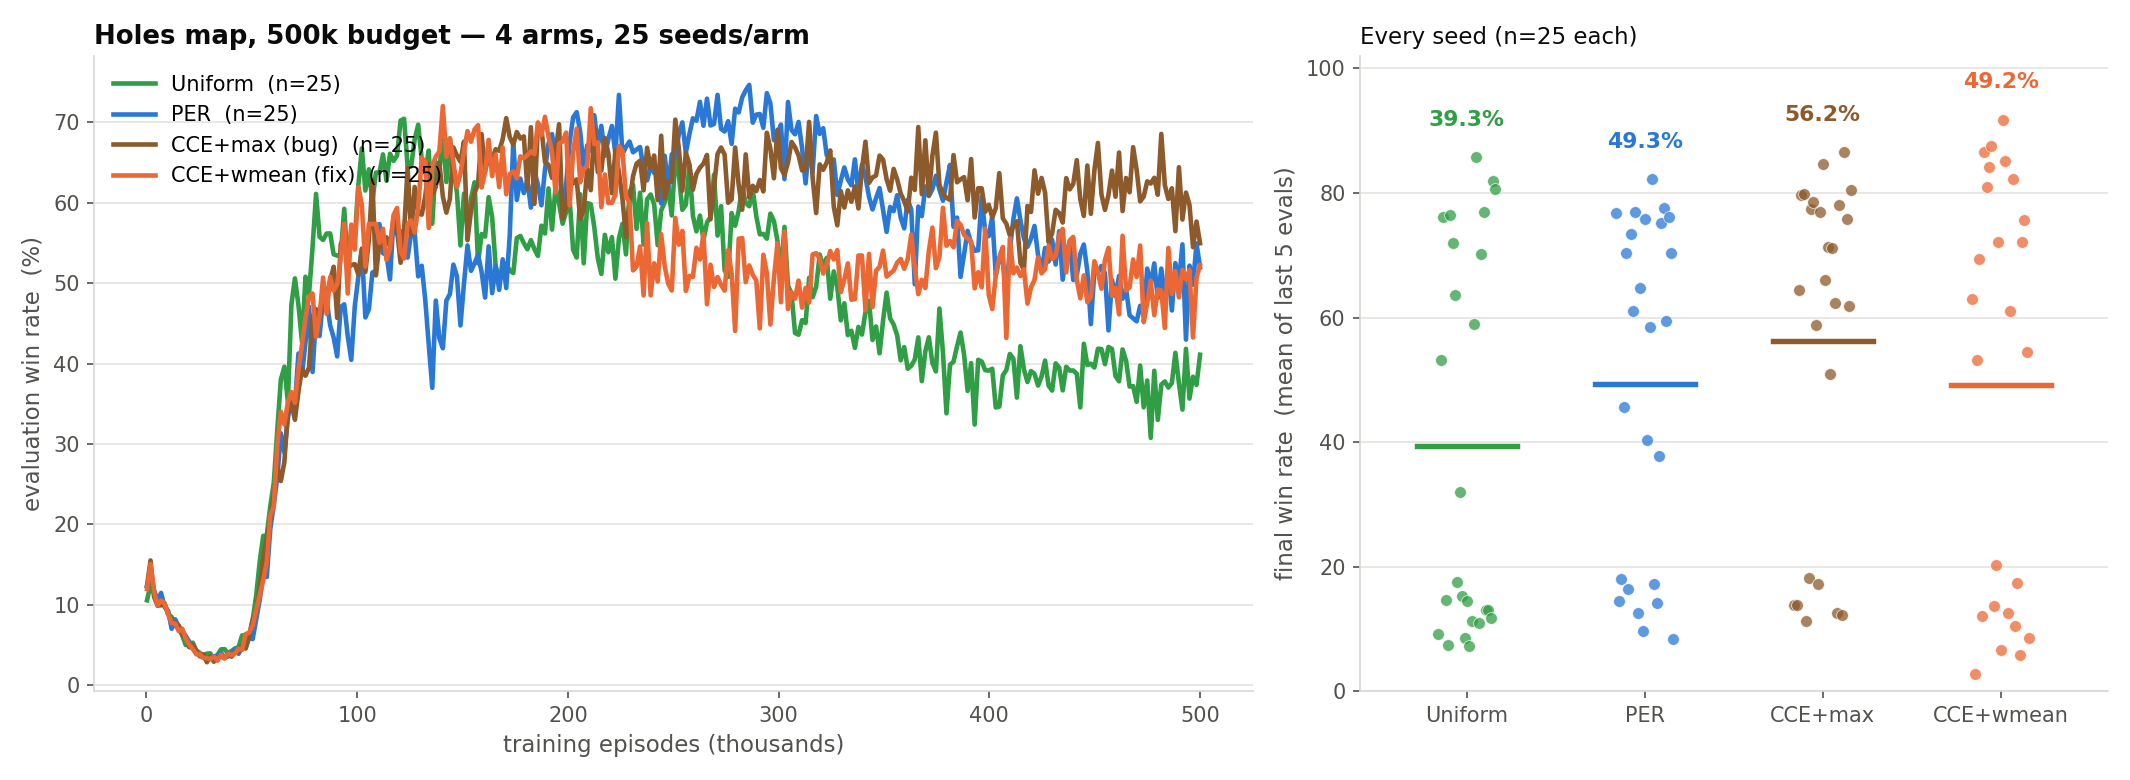
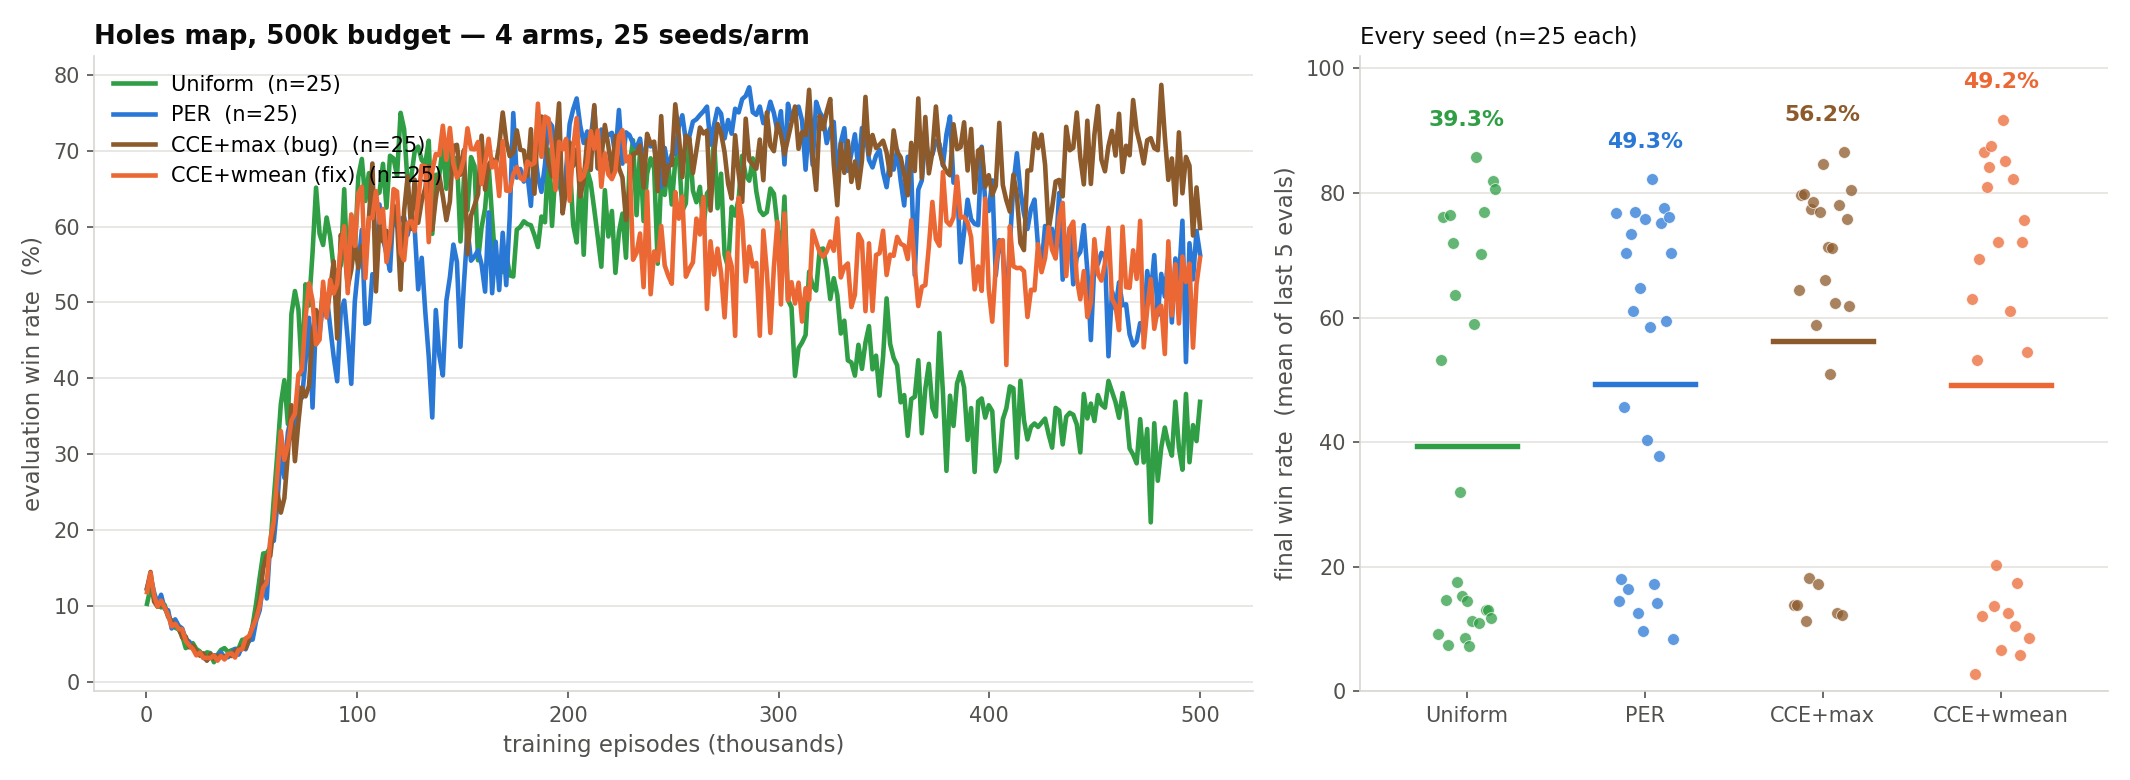
JaxNav figures: use the paper's IQM instead of a local one
jaxnav_holes_figures defined its own iqm() that trimmed a single value from
each end -- 23 of 25 seeds -- and labelled the result IQM. IQM is the middle
50%, 25% trimmed per tail, 13 of 25, which is what compute_metrics computes
through rliable.metrics.aggregate_iqm (itself scipy.stats.trim_mean at 0.25).
Two numbers under one word, on figures sitting next to a paper that uses the
real one.

compute_metrics.iqm() is now the single repo-wide definition and the JaxNav
module imports it. A repo-wide search for the trim-one pattern found it in
that one file only: every paper figure already went through compute_metrics,
so no FL, SMAX or paper/repro number was ever affected.

rliable was not installed in the counterfactual env -- it lives in the broken
~/.local tree that PYTHONNOUSERSITE=1 exists to bypass -- so it is installed
into the env properly now. That pulled in arch and rliable only; jax and
jaxmarl verified still importable afterwards.

What moves: the reported IQM values, and the IQM curve panel in all 8 figures,
which shifts up slightly because the true IQM trims the dead seeds out of the
middle (500k peaks ~78% rather than ~74%). Shape, arm ordering and the decline
after ep ~250k are unchanged.

What does not move: every mean, std, permutation/t/Mann-Whitney p-value,
Brown-Forsythe result and collapse count, all of which are computed from
per-seed finals or per-seed curves and never touched this function. So no
conclusion in any entry changes.
[…]

diff --git a/src/counterfactual_rl/analysis/claim2/compute_metrics.py b/src/counterfactual_rl/analysis/claim2/compute_metrics.py
@@ -15,6 +15,21 @@ from rliable import metrics as rl_metrics
 ALG_ORDER = ['DQN-Uniform', 'DQN+PER', 'DQN+CCE-only', 'CCE+TD (add)', 'CCE+TD (mul)']
 
 
+def iqm(scores) -> float:
+    """Interquartile mean of a 1-D score array -- the project's single definition.
+
+    Delegates to rliable so every figure in the repo aggregates the same way as
+    the paper. rliable's aggregate_iqm is scipy.stats.trim_mean(..., 0.25):
+    the middle 50%, i.e. 25% trimmed from each tail.
+
+    Exists because the JaxNav figures used to carry their own `iqm` that
+    trimmed a single value from each end (23 of 25 seeds rather than 13) and
+    still called the result IQM. On a bimodal arm those disagree by several
+    points, so the name has to mean one thing repo-wide.
+    """
+    return float(rl_metrics.aggregate_iqm(np.asarray(scores, dtype=float)))
+
+
 def iqm_curves(raw: Dict[str, np.ndarray], reps: int = 50000) -> Dict[str, Tuple]:
     """IQM learning curves with 95% bootstrap CI.
 

diff --git a/src/counterfactual_rl/analysis/claim2/jaxnav_holes_figures.py b/src/counterfactual_rl/analysis/claim2/jaxnav_holes_figures.py
@@ -193,10 +193,12 @@ def report_coverage(name, jobs, target, runs_dir=None, tol=0.95):
     return ok
 
 
-def iqm(vals):
-    """Interquartile mean: drop the extremes, average the middle."""
-    s = sorted(vals)
-    return float(np.mean(s[1:-1])) if len(s) > 2 else float(np.mean(s))
+# IQM comes from compute_metrics -- the same rliable call the paper's figures
+# use -- so "IQM" means one thing across the repo. This module used to define
+# its own, trimming a single value from each end (23 of 25 seeds) rather than
+# the middle 50% (13 of 25), and still labelling it IQM. On these bimodal arms
+# the two differ by several points.
+from .compute_metrics import iqm  # noqa: E402
 
 
 def iqm_curve(jobs, runs_dir=None):

diff --git a/lab-notebook.md b/lab-notebook.md
@@ -79,10 +79,10 @@ scenarios and a C1 redo, and JaxNav did not become one of them.
      22/25, 18/25 and 13/25 seeds; the rest diverge from the first eval, most likely GPU float
      nondeterminism (CCE, which does the most GPU work, diverges most). Set deterministic XLA
      flags before any seed-level claim.
-   - `jaxnav_holes_figures.iqm()` trims ONE value per end, which is NOT the rliable
-     interquartile mean the paper's `compute_metrics.py` uses (middle 50%). PER reads 52.1% vs
-     56.4% depending which you mean. STILL UNFIXED — rename it or change it before any JaxNav
-     number goes near the paper.
+   - IQM: FIXED 2026-08-15. `jaxnav_holes_figures` now imports `compute_metrics.iqm`, which is
+     rliable's aggregate_iqm, so there is one definition repo-wide. It previously trimmed one
+     value per end and called that IQM. See the top LOG entry for which reported numbers moved
+     (no conclusion did). `rliable` is now installed in the `counterfactual` env.
    - Post-hoc findings need fresh seeds. The 150k result was found by looking, confirmed
      nothing, and the 500k run reused the same seeds 0-24 by choice (continuation over
      independence), so it deepened the story without ever independently testing it.
@@ -115,6 +115,44 @@ scenarios and a C1 redo, and JaxNav did not become one of them.
 Active: FL-det, FL-stoch, SMAX-3m, C4.   Dropped: Chess, raw diagnostics.
 
 ## LOG (append-only, newest on top)
+
+### 2026-08-15 (later still) — JaxNav figures now use the paper's IQM; some reported IQMs shift
+`jaxnav_holes_figures.py` defined its own `iqm()` that trimmed ONE value from each end (23 of 25
+seeds) and called the result IQM. IQM means the middle 50% — 25% trimmed per tail, 13 of 25 —
+which is what `compute_metrics.py` computes via `rliable.metrics.aggregate_iqm`
+(itself `scipy.stats.trim_mean(..., 0.25)`). Same word, two numbers.
+
+Fixed by pointing the JaxNav module at the paper's definition: `compute_metrics.iqm()` is now
+the single repo-wide IQM and `jaxnav_holes_figures` imports it. Repo-wide search confirmed the
+trim-one version existed in that ONE file — every paper figure (FL, SMAX) already went through
+`compute_metrics`, so **no paper number was ever affected**. `docs/_archive/mock_claim2_figures.py`
+has a third, percentile-masking variant, but that tree is already marked do-not-cite.
+
+`rliable` was missing from the `counterfactual` conda env (it lives in the broken `~/.local`
+that `PYTHONNOUSERSITE=1` deliberately bypasses), so it is now installed into the env properly.
+Only added `arch` + `rliable`; jax and jaxmarl verified still importable afterwards.
+
+REPORTED IQM VALUES THAT CHANGE (means, std, all p-values and all collapse counts are
+UNAFFECTED — they never used this function):
+```
+              old(trim-1)  true IQM
+  96k   per      61.3%      62.7%     <- the true values match what the 2026-08-13 entry
+        cce_max  70.1%      71.7%        already recorded (62.7/71.7/66.0), so the notebook
+        cce_wm   63.2%      66.0%        was right and only the script had drifted
+  150k  per      52.1%      56.4%
+        cce_max  63.4%      64.9%
+        cce_wm   64.7%      64.5%
+  500k  uniform  38.7%      34.6%
+        per      49.7%      53.2%
+        cce_max  56.8%      64.1%
+        cce_wm   49.3%      51.2%
+```
+The 2026-08-14 and 2026-08-15 entries below quote the old trim-1 IQMs; read the table above for
+the corrected ones. **No conclusion changes** — every significance test and every collapse count
+is computed from per-seed finals or per-seed curves, not from this aggregate. The IQM curve
+panels in all 8 figures shift up slightly (500k peaks ~78% rather than ~74%) because the true
+IQM trims the dead seeds out of the middle; shape, ordering and the decline after ep ~250k are
+identical.
 
 ### 2026-08-15 (later) — 500k figures committed; the decline is visible in the IQM itself
 Follow-up to the entry below, which closed with "no committed figure for this run yet". There
